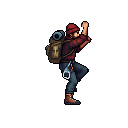
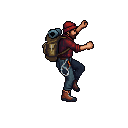
Real climbing on the wall: new frames, played so hands and feet stay on the rock
The old climbing clip was a march in place with the fists held by the
face, slid up the wall at an eased speed, so the climbers looked like
they hovered beside the rock.

- New eight-frame climbing cycle for both climbers (PixelLab skeleton
  posing): the body leans into the wall, one arm stretches up to a
  hold as the opposite knee comes up, then the pull, then the other
  side.
- The frame now follows the climber's height and the sprite is drawn
  in steps, one per frame, so a planted hand or boot stays where it is
  on the rock while the body moves past it. Climbing down runs the
  cycle backwards.
- The climber sits further into the wall, so the reaching hand and the
  toes are on the rock.
- The old rest clips, built on the old frames, are gone.

Claude-Session: https://claude.ai/code/session_018rpfmEX5HfmNYP77j3hC6K

Changed region(s): [[0.3125, 0.1562, 0.75, 0.8438]]

diff --git a/js/scene.js b/js/scene.js
@@ -369,7 +369,13 @@ const ART_POSE={hang:["climb",0],chalk:["climb",0],shake1:["climb",0],shake2:["c
   pull:["climb",4],crouch:["climb",5],reachL:["climb",6],mantle:["climb",7],look:["idle",1],hop:["idle",3],
   yank1:["yank",1],yank2:["yank",2],yank3:["yank",3],yank4:["yank",4],yank5:["yank",5]};
 const HANG_ART=["fall",2]; // hanging back in the harness
-const TIE=[72,63];          // the front of the belt in the climbing frames (where the rope ties in)
+const TIE=[68,66];          // the front of the belt in the climbing frames (where the rope ties in)
+/* Climbing: the clip is an in-place cycle (reach with one hand as the opposite foot steps up, pull, then the other
+   side). So that a hand or boot on the rock stays where it is while the body moves, the frame is taken from the
+   climber's height and the sprite is drawn in steps of CLIMB_STEP pixels, one per frame: each new frame, the body is
+   that much higher and the planted limbs that much lower in it. Climbing down runs it backwards. */
+const CLIMB_STEP=7,CLIMB_X1=93; // (CLIMB_X1: the frames' rightmost pixel, a hand or a toe, which goes into the rock)
+const climbQ=y=>Math.round(y/CLIMB_STEP);
 const REST_N=9,REST_MS=1700; // the resting and dangling clips: nine frames each, the rest played once through
 // the pull-up onto a ledge: nine frames on a tall canvas, the first the hanging climb frame, the last standing up
 // on top. `hang` is where the climb clip's frame sits in that canvas and `stand` where the idle clip's does.
@@ -392,7 +398,6 @@ function loadClimber(L){const who=CLIMBER_ART[L.name],A=L.art={clips:{},ready:0}
   // the extra clips ride at the end of the clips whose placement they share: both rests after the climb's frames
   // (hand up as in frame 3, then as in frame 7), the dangle after the fall's
   const extra=(dir,n,done)=>{const fr=[];let k=n;for(let i=0;i<n;i++){const im=new Image();im.onload=()=>{if(!--k)done(fr);};im.src=asset(`assets/climbers/${who}/${dir}/${i}.png`);fr.push(im);}};
-  extra("rest3",REST_N,a=>extra("rest7",REST_N,b=>{A.clips.climb.push(...a,...b);A.rest=1;}));
   extra("dangle",REST_N,a=>{A.clips.fall.push(...a);A.dangle=1;});
   extra("mantle",MANTLE_N,a=>{A.mantle=a;A.mantleAt=MANTLE[who];});
   extra("look",STAND_N,a=>extra("drink",STAND_N,b=>extra("land",LAND_N,c=>{A.clips.idle.push(...a,...b,...c);A.stand=1;})));}
@@ -527,7 +532,7 @@ class Rig{
   grab(i){this.mode="climb";this.fall=null;this.mv=null;this.hi=i;const p=this.hangAt(i);this.N.x=p.x;this.N.y=p.y;this.play([["hang",1e9]]);this.calm();this.pin();}
   // one move up the wall: the free hand reaches for the next hold while the body stays put, then the climber pulls
   // up onto it in one quick, eased heave (the climb clip plays across both halves, see artFrame)
-  stepUp(d){const n=++this.hi,p=this.hangAt(n),ms=d*1000;this.mode="climb";this.slide(p.x,p.y,d,0,REACH_PULL);
+  stepUp(d){const n=++this.hi,p=this.hangAt(n),ms=d*1000;this.mode="climb";this.slide(p.x,p.y,d);
     this.play([[n%2?"reachR":"reachL",ms*.5],["pull",ms*.5],["hang",1e9]]);this.calm();}
   dyno(d){const ms=d*1000;this.hi+=2;const p=this.hangAt(this.hi);this.mode="climb";this.slide(p.x,p.y,d*.6,d*.3);
     this.play([["crouch",ms*.3],["jump",ms*.6],["pull",ms*.1],["hang",1e9]]);this.calm();}
@@ -606,13 +611,7 @@ class Rig{
   artFrame(t){
     // jolted on the wall (the rope jerked): snapped back off the rock, arms out, for a moment before grabbing on again
     // (while a move off a ledge or a fall waits to start, the body keeps the frame it had, so it never dips first)
-    if(this.mode==="climb"&&this.mv&&this.mv.wait>0&&this.lastArt)return this.lastArt;
-    if(this.mode==="climb"){const half=CLIP_N.climb>>1,base=(this.hi&1)*half,m=this.mv;
-      // resting between moves: the lower hand drops and shakes out, then goes back to its grip (the frames follow
-      // the climb clip's own, so they are placed on the wall the same way)
-      if(this.pose==="rest"&&this.clip&&!m&&this.L.art.rest)return ["climb",CLIP_N.climb+(this.hi&1)*REST_N+Math.min(REST_N-1,Math.floor(this.clip.t/REST_MS*REST_N))];
-      if(m&&m.wait<=0)return ["climb",(base+Math.min(half-1,Math.floor(m.t/m.d*half)))%CLIP_N.climb];
-      return ["climb",(base+half-1+(this.pose==="shake2"?1:0))%CLIP_N.climb];}
+    if(this.mode==="climb"){const n=CLIP_N.climb,q=climbQ(this.N.y);return ["climb",((-q)%n+n)%n];}
     // a fall: tipping back off the wall (two frames), then flailing on a loop; once the rope has caught them, they
     // hang back in the harness
     if(this.mode==="fall"){const F=this.fall,ft=FX.time-(F?F.t0:0);
@@ -657,10 +656,11 @@ class Rig{
       // rock at their own height, so the climber hugs the face; a falling climber keeps the hand anchor)
       // (but out on the overhang under a camp ledge the rock at the boots lies well in from the hands, so there the
       // hands set it, as they do for the rope and the holds)
-      const f=k==="climb"&&this.mode==="climb"&&FX.exp?feetOf(fr[0]):null,wy=f&&R0(this.N.y+HANG[1]-1-b.y0+f.y);
-      if(f&&!this.mantling&&Math.abs(laneX(FX.exp.choice,wy)-laneX(FX.exp.choice,R0(this.N.y+HANG[1])))<6)
-        this.blit(g,img,R0(laneX(FX.exp.choice,wy)+8)+(x-R0(this.N.x))+3-f.x,y+HANG[1]-1-b.y0,"wall",ox,oy);
-      else if(k==="climb")this.blit(g,img,x+HANG[0]+2-b.x1,y+HANG[1]-1-b.y0,"hand",ox,oy);
+      // (on the wall: in steps with the frames, and far enough right that the reaching hand and the toes sit a
+      // few pixels into the rock, so the climber is on the face, not beside it)
+      if(k==="climb"&&this.mode==="climb"&&!this.mantling){const yq=climbQ(this.N.y)*CLIMB_STEP+R0(FX.sub||0)+oy+jo;
+        this.blit(g,img,x+HANG[0]+9-CLIMB_X1,yq+HANG[1]-1-b.y0,"wall",ox,oy);}
+      else if(k==="climb")this.blit(g,img,x+HANG[0]+9-CLIMB_X1,y+HANG[1]-1-b.y0,"wall",ox,oy);
       else this.blit(g,img,x-(flip?W-1-((b.x0+b.x1)>>1):(b.x0+b.x1)>>1),y+LEG-b.y1,"feet:"+k+(flip?"<":">"),ox,oy);
       // (the harness: on the wall at the belt's front in the climbing frames; standing, just ahead of the hips)
       this.tieW=k==="climb"?{x:this.at[0]-ox+TIE[0],y:this.at[1]-oy+TIE[1]}:{x:x-ox+4*this.dir,y:y-oy+3};}

diff --git a/index.html b/index.html
@@ -26,7 +26,7 @@
 window.V="v="+Math.floor(Date.now()/6e4);
 /* The art (everything under assets/) changes rarely and is most of the download, so it keeps one version, which
    browsers may hold on to: raise the number whenever a picture is changed or added. */
-window.AV="art=8";
+window.AV="art=9";
 document.write('<link rel="stylesheet" href="css/style.css?'+V+'">');
 </script>
 <style>
@@ -41,7 +41,7 @@ document.write('<link rel="stylesheet" href="css/style.css?'+V+'">');
 </style>
 </head>
 <body>
-<div id="boot" role="status" aria-label="Loading Pinnacle"><img src="assets/emblem.png?art=8" alt=""><i></i></div>
+<div id="boot" role="status" aria-label="Loading Pinnacle"><img src="assets/emblem.png?art=9" alt=""><i></i></div>
 <div class="scene" id="scene">
   <canvas id="topo" role="img" aria-label="A rope team climbing a granite cliff from base camp to the summit"></canvas>
   <div class="fx" id="fx" aria-hidden="true"></div>
